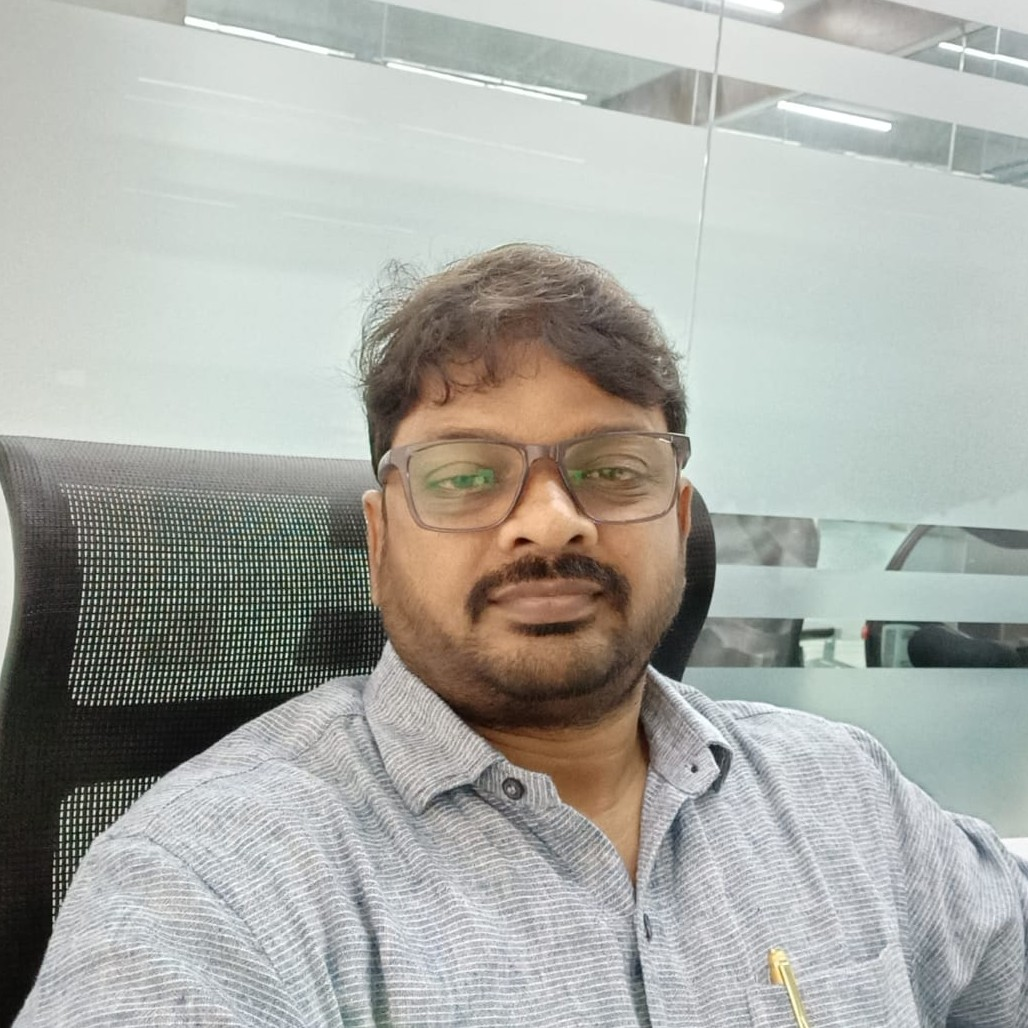
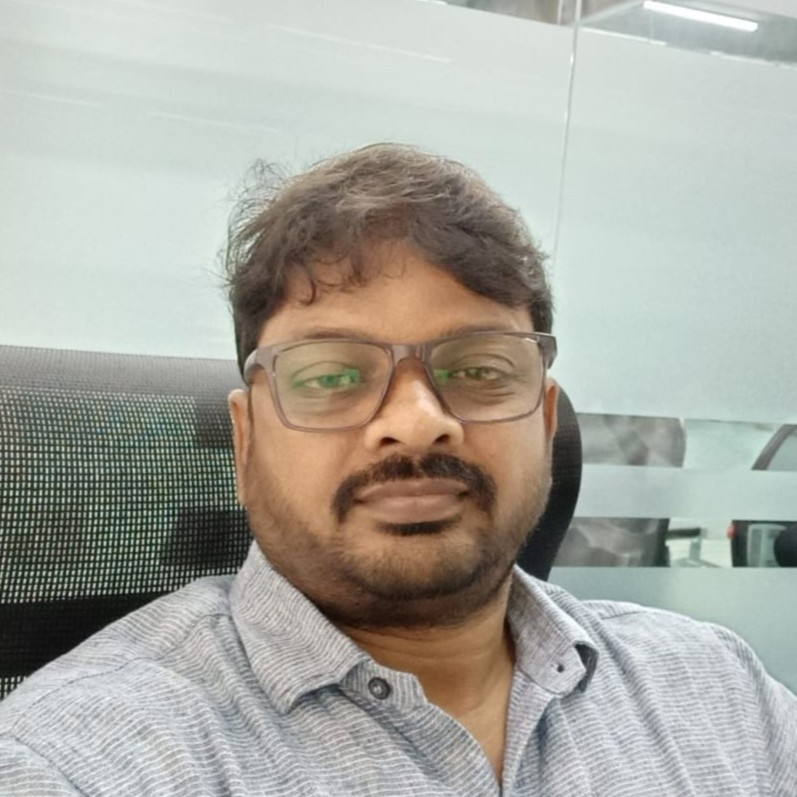
Added pictures

diff --git a/index.html b/index.html
@@ -13,7 +13,9 @@
     <meta name="robots" content="index, follow">
     <link rel="preconnect" href="https://fonts.googleapis.com">
     <link rel="preconnect" href="https://fonts.gstatic.com" crossorigin>
-    <link href="https://fonts.googleapis.com/css2?family=Montserrat:wght@400;500;600;700&display=swap" rel="stylesheet">
+    <link
+        href="https://fonts.googleapis.com/css2?family=Montserrat:wght@400;500;600;700&display=swap"
+        rel="stylesheet">
     <style>
         /* Resets and General Styles */
         * {
@@ -115,7 +117,8 @@
             /* background: url('etienne-beauregard-riverin-B0aCvAVSX8E-unsplash.jpg') center/cover no-repeat; */
             display: flex;
             align-items: center;
-            overflow: hidden; /* Added to contain the parallax image */
+            overflow: hidden;
+            /* Added to contain the parallax image */
         }
 
         .hero::before {
@@ -140,7 +143,8 @@
             background-size: cover;
             background-position: center;
             z-index: 0;
-            transform: translateY(0); /* Initial position */
+            transform: translateY(0);
+            /* Initial position */
         }
 
 
@@ -408,6 +412,18 @@
             opacity: 0.8;
         }
 
+        .footer-info a {
+            color: #fff;
+            /* Make links white */
+            text-decoration: underline;
+            /* Style links with underline */
+        }
+
+        .footer-info a:hover {
+            opacity: 0.9;
+            /* Slightly reduce opacity on hover for a subtle effect */
+        }
+
         /* Media Queries for Responsiveness */
         @media (max-width: 768px) {
             header {
@@ -483,7 +499,7 @@
                 grid-column: 1;
             }
 
-            .about-content > div {
+            .about-content>div {
                 margin-top: 30px;
                 /* Adjust margin for team boxes on smaller screens */
             }
@@ -513,12 +529,12 @@
                 grid-template-columns: 1fr;
             }
 
-            .about-content > div {
+            .about-content>div {
                 gap: 20px;
                 /* Adjust gap between team boxes on smaller screens */
             }
 
-            .about-content > div > div {
+            .about-content>div>div {
                 min-width: 100%;
                 /* Make team boxes full width on very small screens */
             }
@@ -566,16 +582,16 @@
                 <div style="display: flex; flex-wrap: wrap; gap: 30px; margin-top: 40px;">
                     <div
                         style="flex: 1; min-width: 280px; background: #fff; border-radius: 10px; box-shadow: 0 8px 20px rgba(0, 0, 0, 0.1); overflow: hidden; text-align: center; padding: 20px;">
-                        <img src="person 1.jpg" alt="Karunakar"
+                        <img src="WhatsApp Image 2025-04-22 at 19.53.14_65e9b1c3.jpg" alt="Karunakar"
                             style="width: 150px; height: 150px; object-fit: cover; border-radius: 50%; box-shadow: 0 4px 12px rgba(0, 0, 0, 0.15); margin-bottom: 20px;">
-                        <h3 style="color: #1e3a8a; font-size: 1.3rem; margin-bottom: 5px;">Karunakar</h3>
+                        <h3 style="color: #1e3a8a; font-size: 1.3rem; margin-bottom: 5px;">Karunakar Reddy</h3>
                         <p style="color: #555; font-size: 0.9rem;">15+ years of experience in real estate</p>
                     </div>
                     <div
                         style="flex: 1; min-width: 280px; background: #fff; border-radius: 10px; box-shadow: 0 8px 20px rgba(0, 0, 0, 0.1); overflow: hidden; text-align: center; padding: 20px;">
                         <img src="WhatsApp Image 2025-04-21 at 14.11.48_9aa254c5.jpg" alt="Rajashekar"
                             style="width: 150px; height: 150px; object-fit: cover; border-radius: 50%; box-shadow: 0 4px 12px rgba(0, 0, 0, 0.15); margin-bottom: 20px;">
-                        <h3 style="color: #1e3a8a; font-size: 1.3rem; margin-bottom: 5px;">Rajashekar</h3>
+                        <h3 style="color: #1e3a8a; font-size: 1.3rem; margin-bottom: 5px;">Rajashekar Gannoju</h3>
                         <p style="color: #555; font-size: 0.9rem;">15+ years of experience in real estate</p>
                     </div>
                 </div>
@@ -588,8 +604,11 @@
         </section>
     </main>
     <footer class="footer-info">
-        <p>Email: raajvkr@gmail.com, vkrproperty@gmail.com</p>
-        <p>Phone: 9966271679, 9966588817, 9866910606</p>
+        <p>Email: <a href="mailto:raajvkr@gmail.com">raajvkr@gmail.com</a>, <a
+                href="mailto:vkrproperty@gmail.com">vkrproperty@gmail.com</a></p>
+        <p>Phone: <a href="tel:9966271679">9966271679</a>, <a href="tel:9966588817">9966588817</a>,
+            <a href="tel:9866910606">9866910606</a>
+        </p>
     </footer>
     <script>
         const toggle = document.getElementById('menu-toggle');
